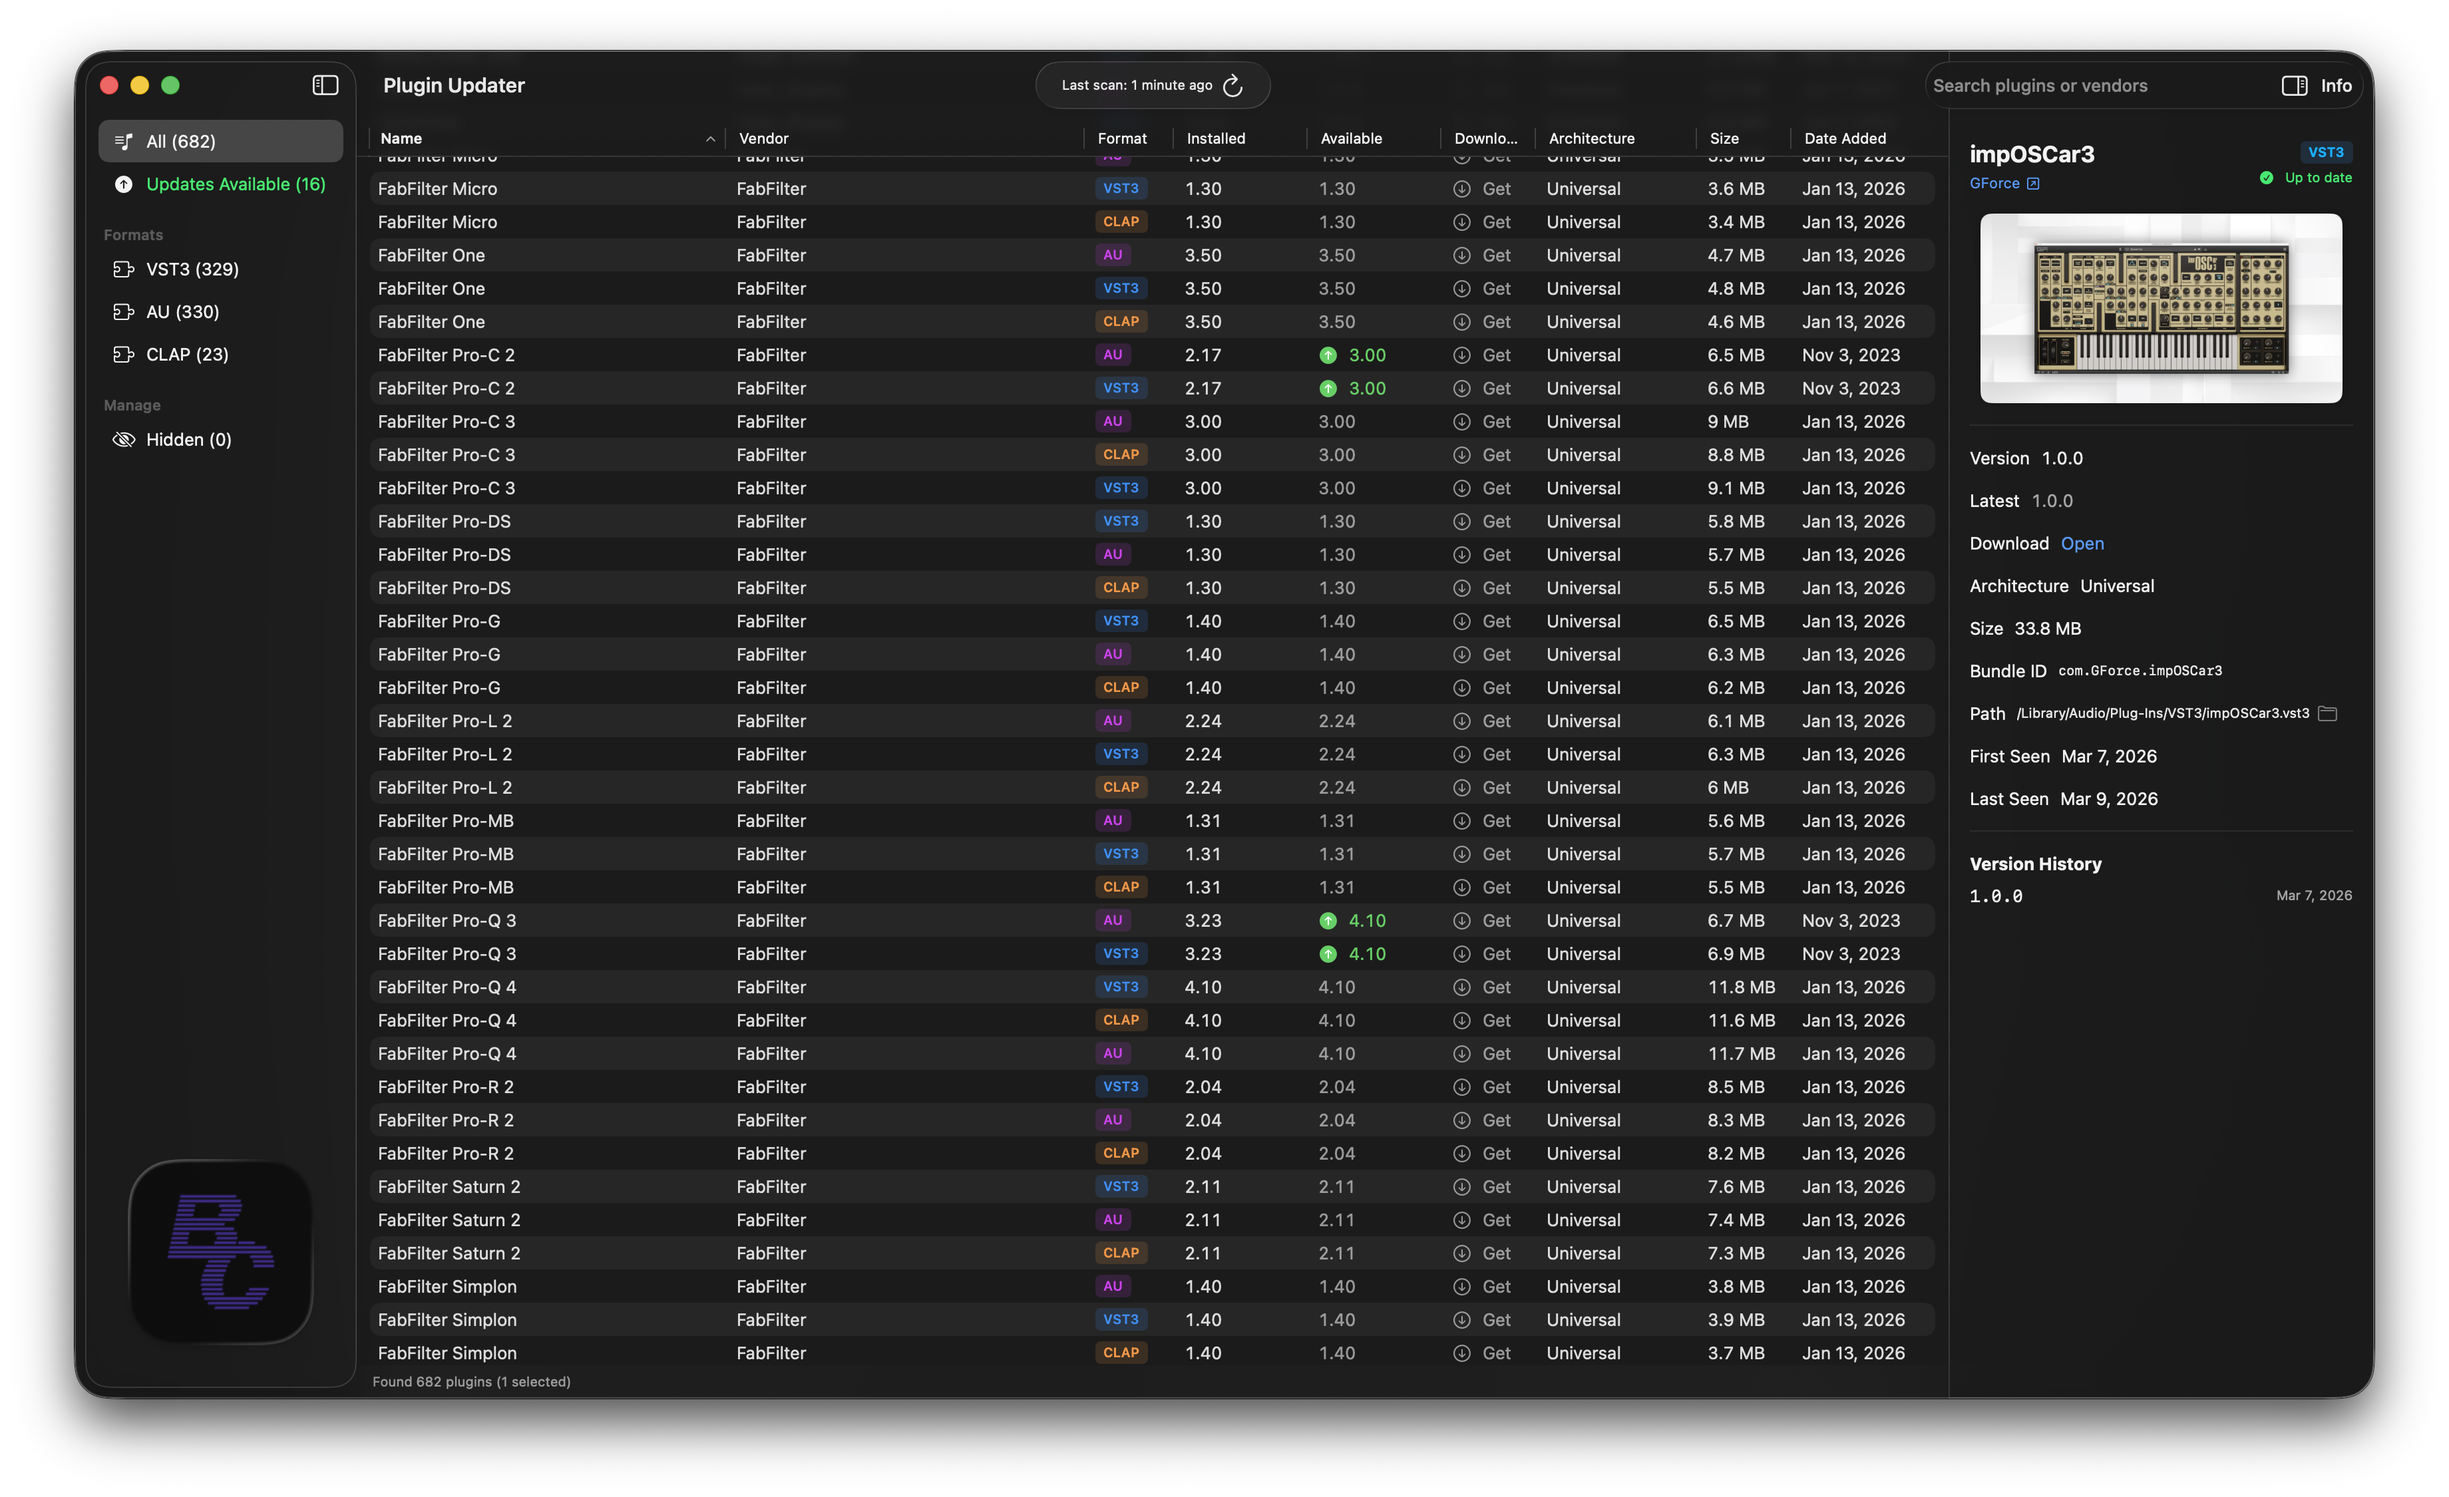
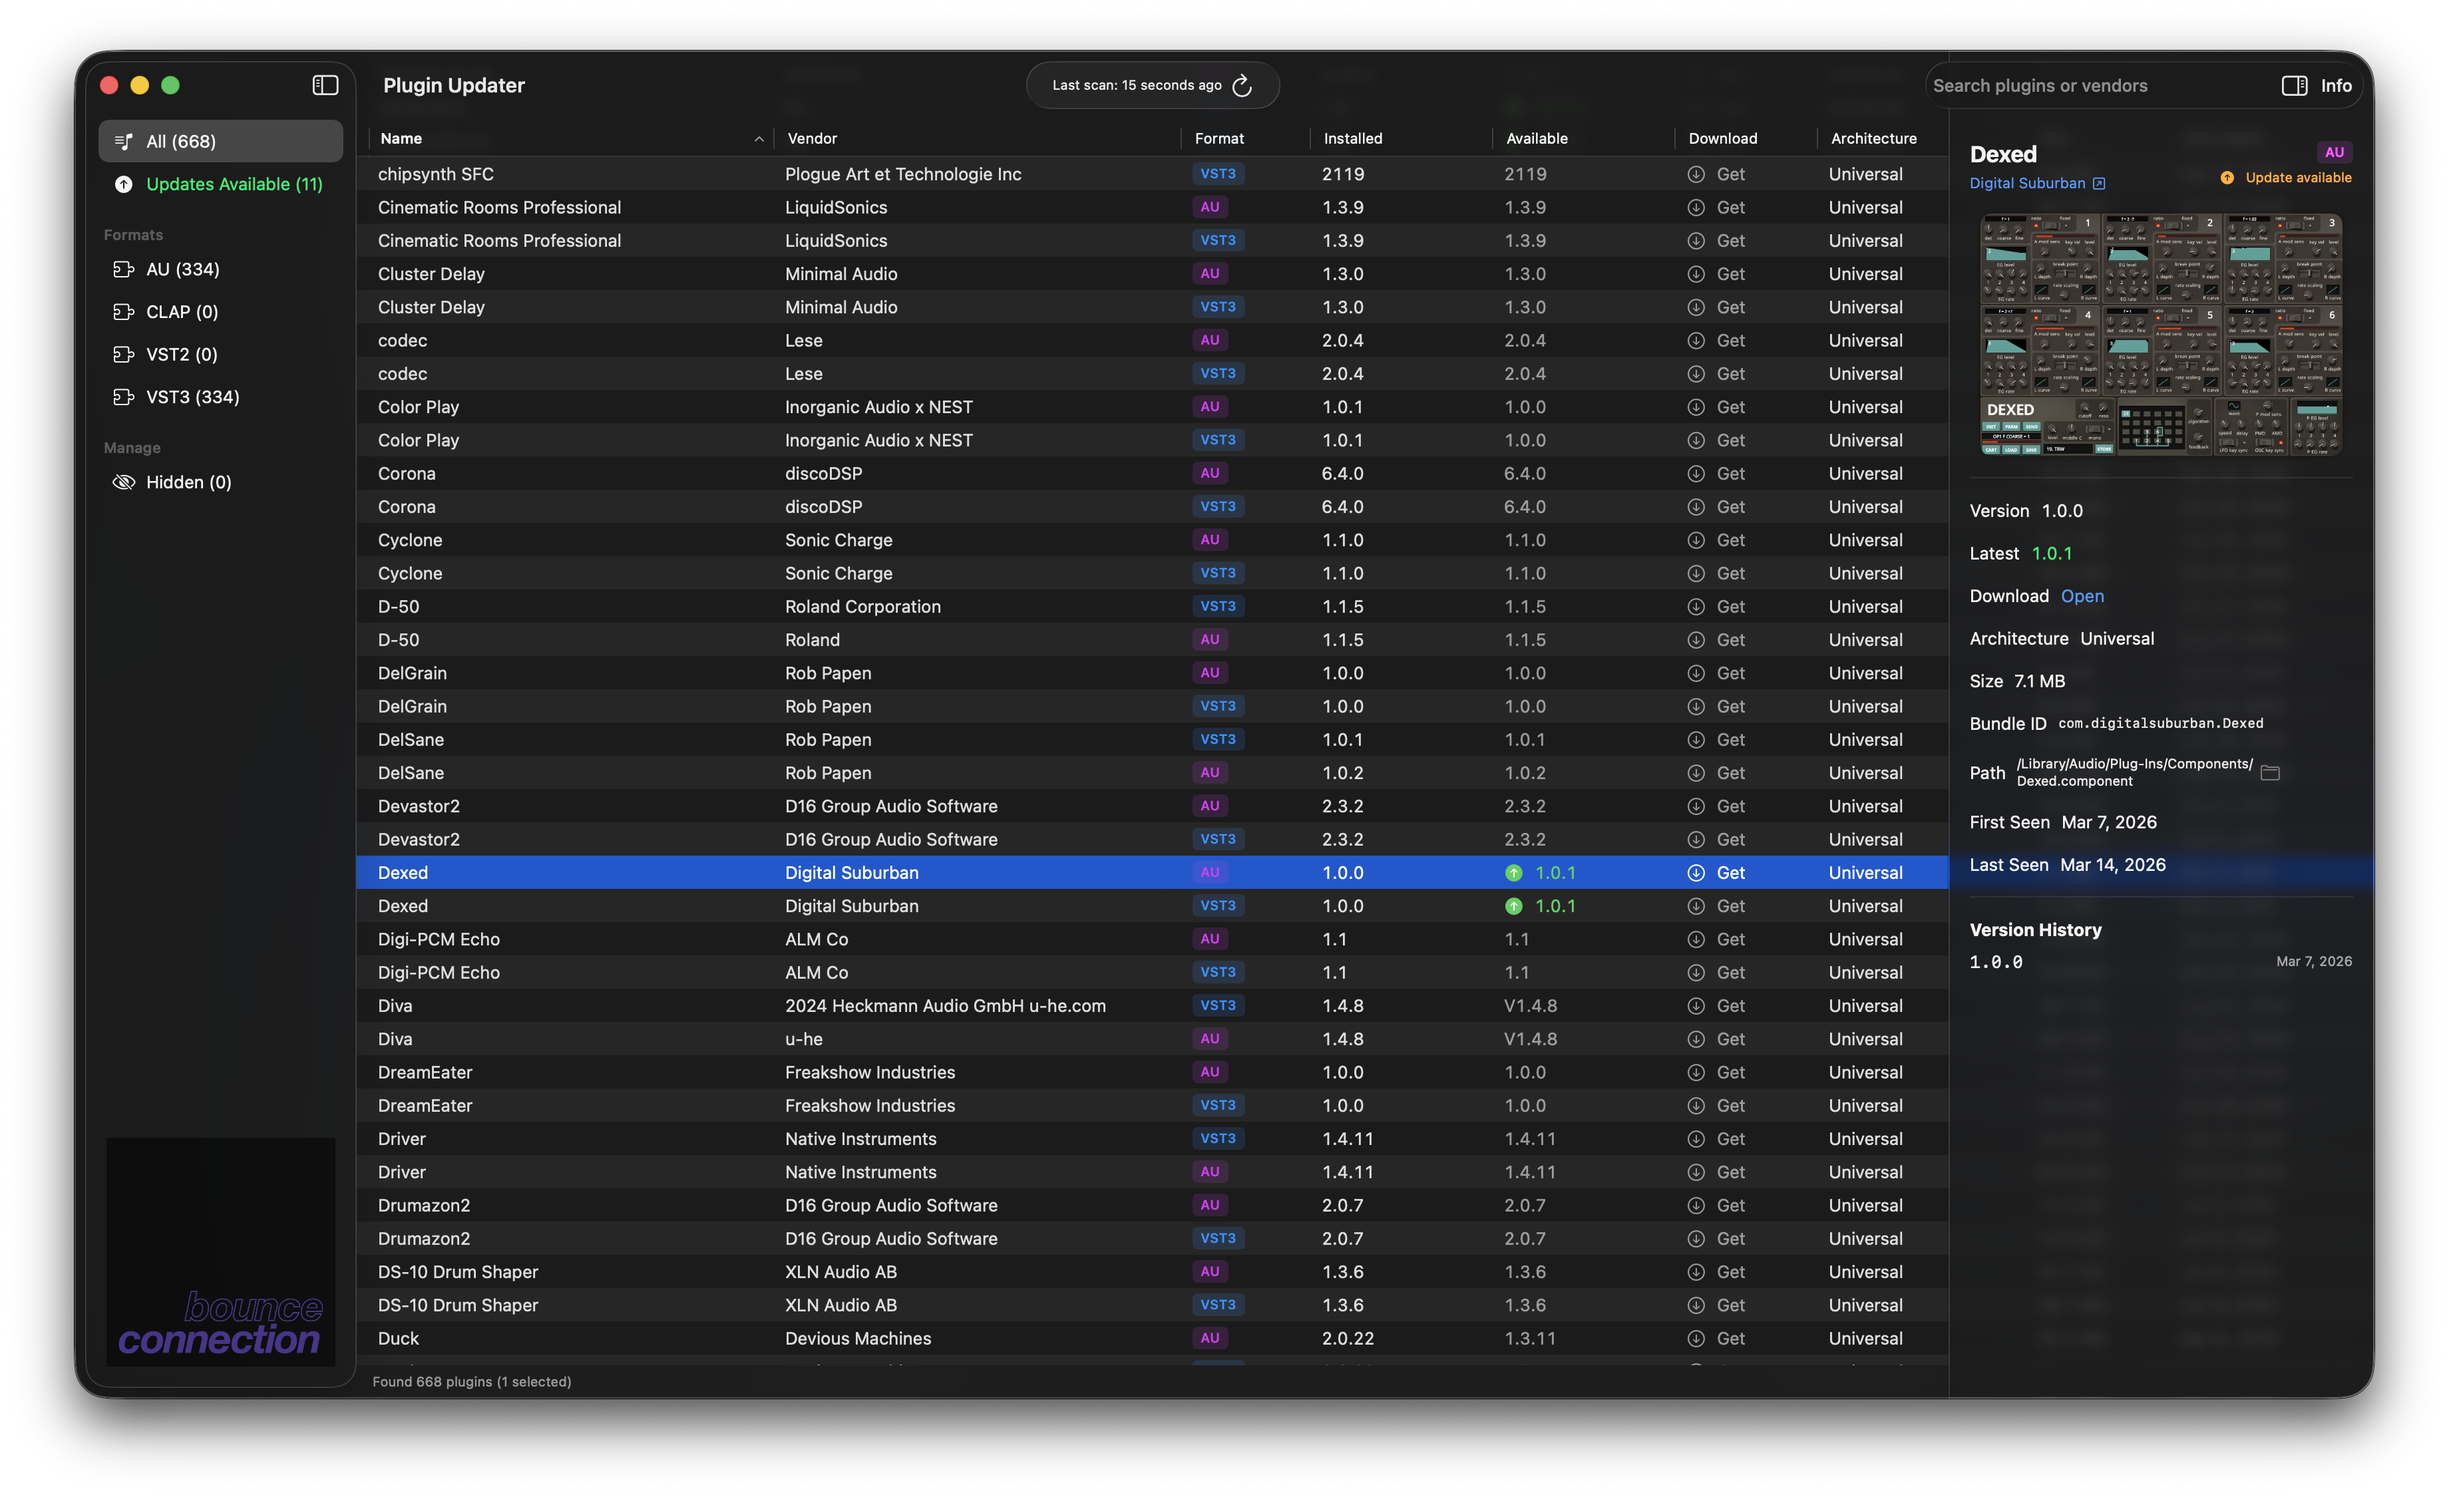
Update README screenshot and add VST2 to docs
Replace dashboard screenshot showing VST2 in sidebar, remove unused
updates screenshot, and update all format references to include VST2.

Changed region(s): [[0.0625, 0.0933, 0.9688, 0.9333], [0.0312, 0.1556, 0.0938, 0.3422], [0.4375, 0.0311, 0.5, 0.0622]]

diff --git a/README.md b/README.md
@@ -1,6 +1,6 @@
 # Plugin Updater
 
-a macOS app that scans all your installed audio plugins (VST3, AU, CLAP), tracks their versions, and automatically checks for available updates.
+a macOS app that scans all your installed audio plugins (AU, CLAP, VST2, VST3), tracks their versions, and automatically checks for available updates.
 
 ![Dashboard](screenshots/dashboard.png)
 
@@ -8,7 +8,7 @@ a macOS app that scans all your installed audio plugins (VST3, AU, CLAP), tracks
 
 - **Automatic Plugin Discovery** — Scans standard macOS audio plugin directories and reads bundle metadata (CFBundleIdentifier, version, vendor)
 - **Update Detection** — Find newer versions of your installed plugins upon each scan
-- **Format Support** — VST3, Audio Unit (AU), and CLAP plugin formats
+- **Format Support** — AU, CLAP, VST2, and VST3 plugin formats
 - **Multi-Select & Bulk Actions** — Cmd+click or Shift+click to select multiple plugins, then right-click for bulk operations
 - **Context Menu** — Copy Paths, Copy Full Details, Reveal in Finder, Open Publisher Website, and Hide/Unhide actions on any selection
 - **CPU Architecture Detection** — Reads Mach-O headers to show Apple Silicon, Intel 64, Universal, or legacy (Intel 32/PowerPC) status with warning badges for legacy plugins
@@ -17,13 +17,11 @@ a macOS app that scans all your installed audio plugins (VST3, AU, CLAP), tracks
 - **Status Bar** — Shows total plugin count and current selection count at the bottom of the table
 - **Smart Vendor Resolution** — Automatically normalizes inconsistent vendor names across formats (e.g., "Plugin-alliance" → "Plugin Alliance") and strips trailing copyright years (e.g., "Rob Papen 2021" → "Rob Papen")
 - **Hide Plugins** — Right-click to hide plugins you don't care about; view and unhide them from the Hidden section in the sidebar
-- **Sidebar Filtering** — Filter by format (VST3, AU, CLAP) or show only plugins with updates available
+- **Sidebar Filtering** — Filter by format (AU, CLAP, VST2, VST3) or show only plugins with updates available
 - **Detail Inspector** — View architecture, size, bundle ID, file path, version history, and download links for any plugin
 - **Real-time Monitoring** — Uses FSEvents to detect plugin changes in the background and trigger incremental scans
 - **Menu Bar Access** — Quick status view from the menu bar showing recent changes and update counts
 - **Notifications** — Get notified when plugins are added, removed, or updated
-
-![Updates Available](screenshots/updates.png)
 
 ## Requirements
 
@@ -82,8 +80,9 @@ swift build
 
 1. **Launch the app** — On first run, it automatically scans the default plugin directories:
    - `/Library/Audio/Plug-Ins/Components/` (Audio Units)
-   - `/Library/Audio/Plug-Ins/VST3/` (VST3)
    - `/Library/Audio/Plug-Ins/CLAP/` (CLAP)
+   - `/Library/Audio/Plug-Ins/VST/` (VST2)
+   - `/Library/Audio/Plug-Ins/VST3/` (VST3)
 
 2. **Scan for plugins** — Click the **Scan Now** button in the toolbar to rescan all directories.
 
